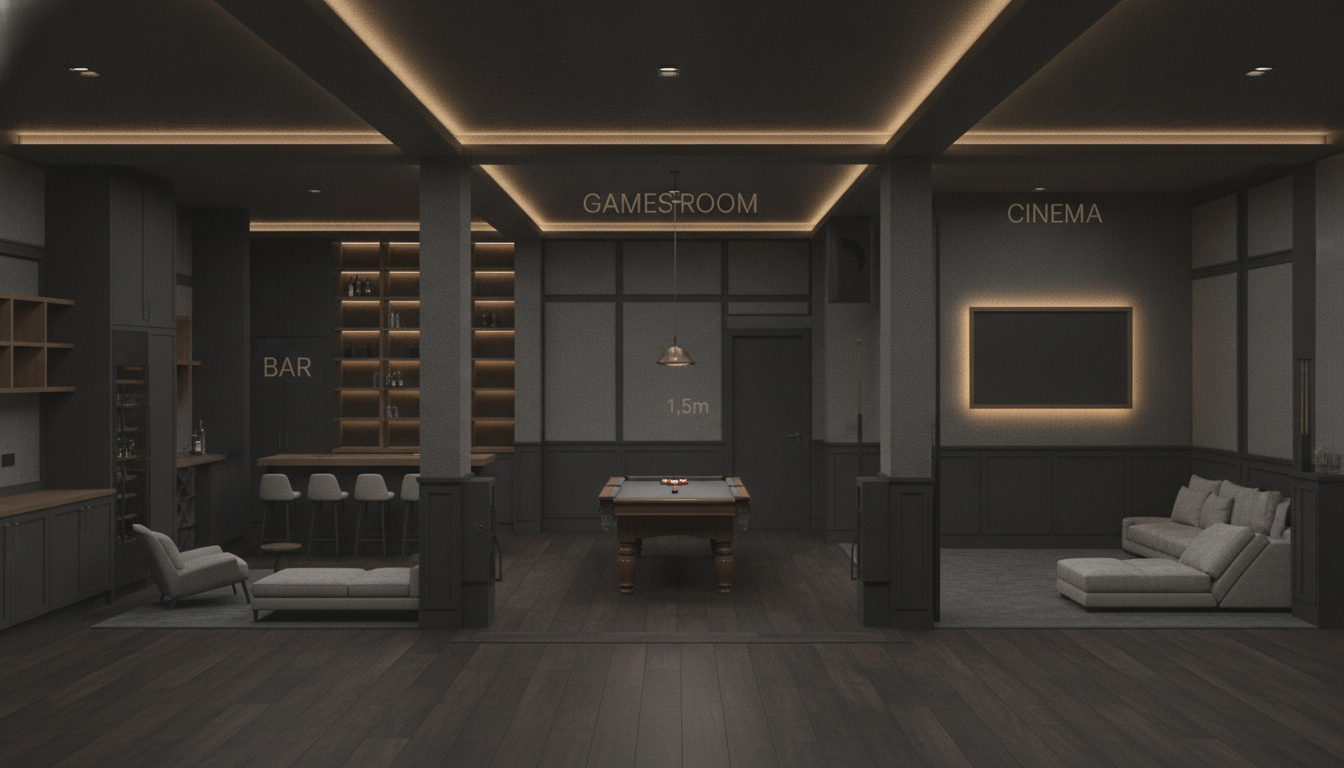
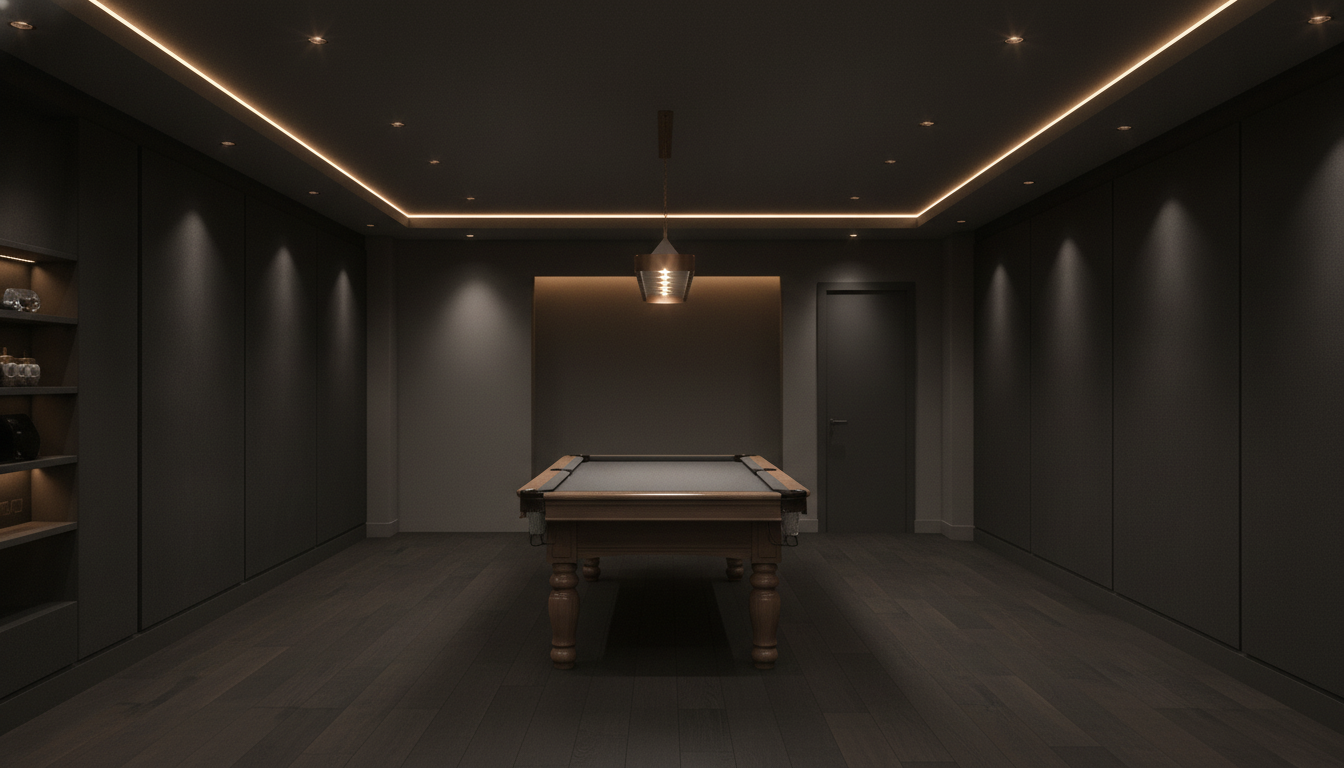
v0.12.0 folder pill + greystones prompts v6 (object canon, fabric walls), render set v6, v4/v5 archives

diff --git a/greystones/nano-banana-prompts-dark-grey.md b/greystones/nano-banana-prompts-dark-grey.md
@@ -1,158 +1,235 @@
-# Greystones (1392) — Basement Render Prompts v4 · DARK GREY · LAYOUT-CANON LOCKED
-### v4 (2026-08-20): every prompt is now pinned to the APPROVED layout plan (`layout-canon.png`, frozen from the v3 plan render Bryn signed off). The batch script attaches `layout-canon.png` to EVERY render automatically — placements must match it exactly, nothing invented. Geometry: basement 12m long × 6m wide × 2.7m ceiling in thirds — BAR (left) / GAMES ROOM (centre, pool table) / CINEMA (right). Also attach `../15 harrop/andy original cinema mood.png` as the style/material reference (the script does this too). Site photos from `site-photos/` still auto-attach where a prompt asks.
+# Greystones (1392) — Basement Render Prompts v6 · DARK GREY · LAYOUT + OBJECT CANON LOCKED
+### v6 (2026-09-01): Bryn — "inconsistent, make it more like the plan, exact and to scale, especially projector screen; nothing but the screen on that wall; front/RHS/rear cinema walls stretched fabric." Added the OBJECT CANON (exact repeated dimensions for every object so each render draws the SAME object at the SAME size), fixed cinema wall finishes, stripped all invented accessories from the screen wall. Layout unchanged from v5 (`layout-canon.png`, frozen from Bryn's hand sketch) — the batch script attaches it to EVERY render; placements must match it exactly. Also attach `../15 harrop/andy original cinema mood.png` as the style/material reference (the script does this too).
 
 ## STYLE BLOCK (prepend to every prompt)
 Photorealistic interior render of a luxury private basement entertainment
 suite — cinema, games room and bar — matching the attached concept image's
 dark grey scheme exactly, and matching the attached gold-on-charcoal LAYOUT
-PLAN exactly for every position. Walls in charcoal stretched fabric and
-painted dark charcoal (#33363a) with graphite upholstered acoustic panels,
-joinery in near-black graphite shaker style (#232529) with dark bronze
-hardware, shelving and counter accents in smoked oak (#6e5136) with
-concealed warm LED washes, sofa and stool upholstery in light silver-grey
-fabric (#b3ada3), slate deep-pile carpet (#4b4d51) in the cinema zone, dark
-engineered timber elsewhere. Basement — fully below ground, no windows, no
-daylight anywhere. CEILING: flat dark acoustic ceiling at 2.7m in each
-zone, crossed by two full-width charcoal-wrapped structural bulkheads at
-the zone boundaries, warm LED cove reveal along each bulkhead and around
-each ceiling bay perimeter. Warm 2700K lighting only — concealed LED
-coves, low-glare bronze-trimmed downlights, no visible light sources, no
-RGB, no blue tones anywhere. Moody, cinematic, high-end — Architectural
-Digest quality.
+PLAN exactly for every position. This is ONE render in a coordinated set:
+every object below has a FIXED size and appearance and must look IDENTICAL
+in every image of the set — same proportions, same materials, same
+position as the plan, drawn accurately to scale with the room.
 
-LAYOUT CANON (from the attached plan — follow EXACTLY, add NOTHING):
-one rectangular basement 12m long × 6m deep, three equal 4m-wide zones
-left to right: BAR / GAMES ROOM / CINEMA. Zone boundaries are partition
-walls with stub returns at the front and back walls and one WIDE CENTRAL
-OPENING each — the only ways through. CINEMA (right third): projection
-screen with warm LED halo centred on the BACK wall of the cinema zone;
-large L-shaped sofa in the FRONT-RIGHT corner, its long side against the
-front wall and short return up the right end wall, angled to face the
-screen diagonally; slate carpet; nothing else in the room — no door in
-the cinema walls, no cabinets. GAMES ROOM (centre): pool table with
-charcoal cloth exactly centred, 1.5m clear all round; the SINGLE main
-entrance door sits in the BACK wall of this zone OFFSET toward the cinema
-side, close to the cinema partition; no other furniture. This entrance is
-the ONLY door in the whole basement.
-BAR (left third): straight island bar counter parallel to the back wall,
-centred in the zone, with FOUR silver-grey bar stools along its front
-side; full-width back-bar shelving with warm LED wash along the BACK wall
-behind the counter; tall drinks fridge / cabinet unit at the back-left;
-wine shelving on the LEFT end wall; lounge armchair in the front-left
-corner with a low bench seat beside it on the front wall. No windows
-anywhere, no doors other than the games-zone entrance, no furniture that
-is not on the plan. 16:9 aspect ratio.
+ROOM SHELL: basement 12m long × 6m deep × 2.7m flat ceiling, fully below
+ground, no windows, no daylight anywhere. Three equal 4m zones left to
+right: BAR / GAMES ROOM / CINEMA, divided by partition walls with stub
+returns and one wide central opening each. Walls painted dark charcoal
+(#33363a); joinery near-black graphite shaker (#232529) with dark bronze
+hardware; worktop/shelf accents smoked oak (#6e5136); upholstery light
+silver-grey fabric (#b3ada3); slate deep-pile carpet (#4b4d51) in the
+cinema zone only, dark engineered timber elsewhere. CINEMA ZONE WALLS:
+the screen wall, the right-hand end wall and the rear wall behind the
+sofa are floor-to-ceiling charcoal STRETCHED FABRIC with crisp shadow-gap
+trim; the partition wall shared with the games room is painted charcoal.
+NO acoustic panels, NO diamond panels, NO slatted timber, NO wall decor
+anywhere in the cinema. CEILING: flat dark acoustic ceiling, crossed by
+two full-width charcoal-wrapped structural bulkheads at the zone
+boundaries, warm LED cove reveal along each bulkhead and around each
+ceiling bay perimeter. Warm 2700K lighting only — concealed LED coves,
+low-glare bronze-trimmed downlights, no visible light sources, no RGB, no
+blue tones anywhere. Moody, cinematic, high-end — Architectural Digest
+quality. The attached LAYOUT PLAN is positional reference ONLY — NEVER
+draw the plan itself, its gold linework, labels, dimension text or
+symbols in the output; the output is a pure photographic interior view
+with no diagram overlay and no text.
+
+OBJECT CANON — fixed sizes, identical in EVERY render, nothing else exists:
+- SCREEN: one 3.2m-wide × 1.8m-tall (16:9) projection screen with a slim
+  20mm matte-black frame, set flush in the cinema screen wall's stretched
+  fabric, EXACTLY centred on the 4m wall, bottom edge 500mm above the
+  floor, warm 2700K LED halo glowing evenly from behind all four edges.
+  TO SCALE: the screen spans 80% of the wall's width — only about 400mm
+  of bare fabric shows either side of the frame, and its top edge
+  reaches 2.3m of the 2.7m ceiling. It reads as a huge cinema screen,
+  never a lounge TV.
+  The screen wall carries NOTHING else — no speakers, no soundbar, no
+  cabinet, no console, no shelf, no plant, no panels, no door: bare
+  stretched fabric and the screen only.
+- SOFA (cinema): one U-shaped modular sofa, 3.2m wide across the back,
+  two equal 2.2m return arms toward the screen, seat height 450mm, low
+  780mm back, wide flat armrests, light silver-grey fabric, charcoal and
+  slate scatter cushions. Centred in the zone per the plan, its back to
+  the rear wall, opening squarely toward the screen.
+- PROJECTOR: one compact matte-black projector, high on the cinema REAR
+  wall just below the ceiling, centred behind the sofa (plan position
+  PJ). No other AV equipment visible anywhere.
+- POOL TABLE (games): one 7ft English pool table, 2.0m × 1.0m playfield,
+  smoked-oak rails and legs, charcoal cloth, exactly centred in the games
+  zone with equal clear floor all round, long axis running front-to-back
+  per the plan; one linear bronze-trimmed billiard pendant centred above
+  it at 2700K.
+- DOOR: exactly ONE door in the whole basement — a flush dark charcoal
+  door in the games zone back wall, offset toward the cinema partition
+  per the plan. Every other wall is unbroken.
+- BAR COUNTER: one U-shaped counter wrapping the bar's back-left corner —
+  2.6m run along the back wall, 1.8m return along the left end wall —
+  graphite shaker base, 40mm smoked-oak top at 1.1m height, warm LED
+  strip under the counter lip, integral small sink and glass-door drinks
+  fridge in the base, one bronze beer font on the counter. Back-bar
+  shelving above the back-wall run: near-black joinery, three smoked-oak
+  shelves, backlit bottles and glassware.
+- WINE SHELVING: one open smoked-oak wine/shelving unit on the bar's left
+  end wall toward the front corner.
+- LOUNGE BENCH (bar): one L-shaped built-in bench, 2.6m along the front
+  wall with a 1.8m return toward the room centre, graphite base,
+  silver-grey seat cushions, low smoked-oak drinks table in front.
+NO bar stools, NO island counter, NO armchair, NO floor-standing
+speakers, NO plants, NO artwork, NO rugs except the cinema carpet, NO
+furniture or objects that are not in this list. 16:9 aspect ratio.
 
 ## 1 · HERO — Cinema zone, screen wall  → hero slot
-Standing in the wide central opening of the cinema partition, looking at
-the back wall of the cinema zone: large projection screen with a slim
-black frame set flush in the charcoal fabric-wrapped back wall, warm
-2700K LED halo glowing evenly around the screen perimeter, graphite
-diamond acoustic panels flanking it, subtle fibre-optic star-ceiling
-recess above with the warm LED cove of the cinema ceiling bay, and to the
-camera's right the L-shaped silver-grey modular sofa in the far corner —
-long side along the right-hand wall run, return along the end wall —
-angled toward the screen, charcoal scatter cushions, smoked-oak side
-table, film playing with rich colour. Exactly the furniture on the plan,
-nothing more.
+Camera INSIDE the cinema zone, standing just behind the U-shaped sofa,
+looking squarely at the cinema screen wall — ONLY the cinema zone is
+visible, its side walls framing the shot; no other zone, no pool table,
+no bar in frame. The CANON screen exactly as specified: 3.2m wide,
+centred on the 4m stretched-fabric wall, bottom edge 500mm up, slim
+black frame, warm LED halo glowing evenly around all four edges, film
+playing with rich colour. The wall is otherwise completely bare
+stretched fabric floor to ceiling. Subtle fibre-optic star-ceiling
+recess above with the warm LED cove of the cinema ceiling bay. In the
+foreground the CANON U-sofa centred on the screen — long seat nearest
+the camera, both return arms reaching toward the screen, nothing
+resting on the sofa. Slate carpet. The projector is NOT visible in
+this shot (it sits high on the wall BEHIND the camera) — no projector,
+no box, no equipment anywhere in frame, and no "PJ" text anywhere.
+This is a fixed U-shaped fabric sofa — NOT individual recliner seats,
+no cupholders, no leather. Exactly the objects in the canon, nothing
+more.
 
 ## 2 · LAYOUT PLAN — top view, whole basement  → plan slot  ·· CANON — DO NOT RE-RENDER
-### (this prompt produced layout-canon.png — approved 2026-08-20; re-running replaces the canon, so skip it in batches)
+### (this prompt describes layout-canon.png — v5 frozen 2026-09-01 from Bryn's hand sketch; re-running replaces the canon, so skip it in batches)
 Clean top-down architectural plan illustration (not photoreal) of a
 12m × 6m rectangular basement in three equal zones divided by two
 partition walls with stub returns and wide central openings. Cinema zone
-on the right: projection screen with LED halo on the back wall, L-shaped
-sofa in the front-right corner facing it. Central games zone: full-size
-pool table centred with 1.5m cueing clearance marked. THE DOOR: exactly
-ONE door in the whole plan — drawn in the TOP wall of the games room
-with a quarter-circle door swing arc, positioned three-quarters of the
-way along toward the cinema side, right beside the cinema partition.
-The bottom wall and both end walls are completely unbroken. Bar zone on the
-left: island bar counter with EXACTLY FOUR stools, back-bar shelving
-along the back wall, drinks cabinet, wine shelving on the end wall,
-lounge corner at the front. Charcoal background, bronze linework.
-TEXT: the ONLY text on the drawing is the three zone names BAR,
-GAMES ROOM, CINEMA and the two overall dimensions 12m and 6m — no other
-labels, no annotations, no dimension text anywhere else. Premium
-brochure style.
+on the right: projection screen with LED halo on the back wall, U-shaped
+sofa centred in the zone opening toward the screen — long seat along the
+front wall, two equal arms toward the screen — and a small square box
+labelled PJ against the front wall beside the sofa. Central games zone:
+full-size pool table centred, long axis front-to-back, 1.5m cueing
+clearance marked. THE DOOR: exactly ONE door in the whole plan — drawn
+in the TOP wall of the games room with a quarter-circle door swing arc,
+positioned three-quarters of the way along toward the cinema side, right
+beside the cinema partition. The bottom wall and both end walls are
+completely unbroken. Bar zone on the left: U-shaped counter wrapping the
+back-left corner with integral sink and fridge symbols, open shelving /
+wine rack on the left end wall toward the front, L-shaped lounge bench
+along the front wall — NO island, NO stools. Charcoal background, bronze
+linework. TEXT: the ONLY text on the drawing is the three zone names
+BAR, GAMES ROOM, CINEMA, the label PJ, and the two overall dimensions
+12m and 6m — no other labels, no annotations, no dimension text anywhere
+else. Premium brochure style.
 
 ## 3 · SCREEN WALL  → wallFront slot
-Straight-on elevation of the cinema zone's back wall exactly as placed on
-the attached plan (the 4m-wide bay between the partition and the right
-end wall): charcoal fabric-wrapped wall floor to ceiling, projection
-screen with slim black frame set flush and centred, warm 2700K LED halo
-glowing evenly around all four screen edges, dark bronze reveal trim,
-graphite diamond acoustic panels either side, LED wash from the ceiling
-cove above. No door, no cabinetry, no windows in this wall — a clean
-fabric screen wall only.
+Straight-on elevation of the cinema screen wall exactly as placed on the
+attached plan (the 4m-wide bay between the partition and the right end
+wall): floor-to-ceiling charcoal stretched fabric, and set flush in it
+the CANON screen — 3.2m wide × 1.8m tall, slim 20mm matte-black frame,
+EXACTLY centred on the wall, bottom edge 500mm above the slate carpet,
+warm 2700K LED halo glowing evenly around all four edges from behind
+the frame. LED wash from the ceiling cove above, fabric texture just
+catching the light. The wall carries ABSOLUTELY NOTHING else — no
+speakers, no soundbar, no cabinet, no shelf, no panels, no door, no
+plant, no accessories of any kind: bare stretched fabric and the screen
+only, perfectly symmetrical.
 
 ## 4 · GAMES ROOM — pool table  → wallLeft slot
-Standing at the bar-side opening looking across the games room, matching
-the attached plan: full-size pool table with charcoal cloth and smoked
-oak rails EXACTLY centred with clear floor all round, linear bronze-
-trimmed billiard pendant above it at 2700K, the main entrance door set
-flush in dark charcoal in the back wall toward the cinema-side end of
-the zone (per the plan — not centred), the two
+Pure photographic interior view — absolutely no plan drawing, linework,
+labels or dimension text in the image. Standing at the bar-side opening
+looking across the games room, matching the attached plan: the CANON
+pool table — 7ft, smoked-oak rails, charcoal cloth — EXACTLY centred in
+the games zone with equal clear floor all round, its long axis running
+AWAY from the camera toward the far partition (perpendicular to the
+room's 12m length, matching the plan), the CANON billiard pendant
+centred above it, the CANON door set flush in the back wall toward the
+cinema-side end of the zone (per the plan — not centred), the two
 charcoal-wrapped bulkheads with warm LED reveals overhead marking the
-zone boundaries, dark timber floor, and through the wide opening beyond
-the glow of the cinema screen halo. No other furniture — the games room
-holds only the pool table, per the plan.
+zone boundaries, dark timber floor. The far wall ahead is the plain
+charcoal cinema partition with its wide central opening — NO screen,
+NO TV, NO glowing panel anywhere in the games room or on the
+partition; at most a faint warm glow spills through the opening from
+the cinema beyond. No other furniture — the games room holds only the
+pool table, per the plan. The floor is plain dark
+timber — NO measurement text, NO "1.5m" labels, NO white marker lines
+or clearance outlines drawn on the floor or anywhere else.
 
 ## 5 · BAR — front view  → wallRear slot
 Standing in the games-side opening looking into the bar zone, matching
-the attached plan: straight island bar counter centred in the zone,
-graphite shaker base with a smoked oak top and warm LED strip under the
-counter lip, FOUR silver-grey upholstered bar stools with bronze
-footrails in a row along its near side, and behind it the full-width
-back-bar along the back wall — near-black joinery, smoked-oak shelves of
-backlit bottles and glassware, tall drinks cabinet with softly glowing
-glass door at its left end. On the far left end wall, smoked-oak wine
-shelving; in the front-left corner a silver-grey lounge armchair and low
-bench. Bronze beer font on the counter. Exactly the pieces on the plan,
-positioned as drawn.
+the attached plan. Camera-relative geography, follow it exactly: the
+far wall ahead is the LEFT END wall of the basement; the wall on the
+CAMERA'S RIGHT is the back wall; the wall on the CAMERA'S LEFT is the
+front wall. The CANON U-counter wraps the FAR-RIGHT corner — its 2.6m
+run along the right-hand (back) wall, its 1.8m return coming out along
+the far end wall — smoked oak top, LED strip under the lip, sink and
+glowing glass-door fridge in the base, bronze beer font on top, the
+CANON back-bar shelving above the right-hand run with backlit bottles.
+On the far end wall toward its left half, the CANON wine shelving unit.
+On the CAMERA'S LEFT the CANON L-shaped lounge bench hugs the front
+wall, low smoked-oak drinks table in front. THE MIDDLE OF THE FLOOR IS
+COMPLETELY EMPTY dark timber — NO island, NO freestanding counter or
+unit of any kind in the centre; the ONLY counter is the U against the
+far corner walls. NO bar stools, NO armchair. Every wall in this room
+is completely UNBROKEN — NO door, NO doorway anywhere in frame; the
+basement's only door is in the games room BEHIND the camera. Exactly
+the objects in the canon, positioned as drawn.
 
 ## 6 · LONG VIEW — all three zones  → wallRight slot
 ### (attach the long axial Greystones site photo for the exact shell proportions)
-Wide view down the full 12m length from the cinema end wall beside the
-sofa, exactly matching the attached plan's arrangement: the L-shaped
-silver-grey sofa corner in the near right foreground on slate carpet, the
-LED-haloed screen glowing on the back wall to the right of frame, then
-through the wide partition opening the centred pool table under its
-pendant, and at the far end the warm glow of the island bar with its four
-stools and backlit shelving. The two charcoal-wrapped bulkheads with LED
-reveals cross overhead at the zone breaks, three lit ceiling bays in a
-row, one continuous dark grey scheme, bronze accents catching the light.
+Wide view down the full 12m length from beside the cinema screen wall,
+exactly matching the attached plan's arrangement: the CANON U-sofa
+centred in the near cinema zone on slate carpet, its open side toward
+the camera — NO projector visible anywhere near the screen — then
+through the wide partition opening the CANON pool table centred under
+its pendant, and at the far end the warm glow of the bar's U-shaped
+corner counter and backlit back-bar shelving, the lounge bench along
+the front wall. Cinema walls in stretched fabric, the two
+charcoal-wrapped bulkheads with LED reveals crossing overhead at the
+zone breaks, three lit ceiling bays in a row, one continuous dark grey
+scheme, bronze accents catching the light. Every object exactly the
+canon size, to scale with the 12m × 6m shell.
 
 ## 7 · SEATING DETAIL  → seat slot
-Close-up three-quarter shot of the corner of the L-shaped modular sofa
-exactly as positioned on the plan — in the cinema's front corner, long
-side against the wall — light silver-grey fabric, wide flat armrests,
-charcoal and slate scatter cushions, smoked-oak side table with a low
-warm table lamp, slate deep-pile carpet, the warm glow of the screen halo
-washing in from the screen wall beyond, soft warm rim lighting —
-luxurious, casual cinema lounging.
+Close-up three-quarter shot of one corner of the CANON U-shaped modular
+sofa exactly as positioned on the plan — centred in the cinema zone,
+back to the rear wall, return arm reaching toward the screen so the
+corner where seat meets arm is the subject — light silver-grey fabric,
+wide flat armrests, 450mm seat height, charcoal and slate scatter
+cushions, smoked-oak side table with a low warm table lamp, slate
+deep-pile carpet, the warm glow of the screen halo washing in from the
+screen wall beyond, soft warm rim lighting. The wall behind the sofa is
+floor-to-ceiling charcoal STRETCHED FABRIC — NO acoustic panels, NO
+slats, NO light oak, NO pale timber, no wall decor. Luxurious, casual
+cinema lounging.
 
 ## 8 · BACK-BAR SHELVES  → shelf1 + shelf2 slots (portrait crops)
-Detail of the back-bar shelving run on the bar zone's back wall exactly
-as on the plan: near-black graphite joinery bay with three smoked-oak
+TIGHT close-up detail shot — the shelving bay FILLS the frame edge to
+edge, camera two steps away, nothing else of the room visible: the
+CANON back-bar shelving above the bar counter's back-wall run exactly
+as on the plan — near-black graphite joinery bay with three smoked-oak
 shelves, concealed warm LED strip washing each shelf, whisky decanter,
-premium spirit bottles and glassware, a small bronze film-reel ornament,
-the smoked-oak counter edge just visible below, dark background, warm
-glow.
+premium spirit bottles and glassware, a small bronze film-reel
+ornament, the smoked-oak counter edge just visible at the bottom of
+frame, dark background, warm glow. No pool table, no sofa, no doors —
+shelves only.
 
 ## Board note
-v4 LOCK: `layout-canon.png` (frozen v3 plan render, approved by Bryn
-2026-08-20) is attached to every render by the batch script — placements
-must match it and prompts forbid invented doors/furniture. Prompt 2 is
-the canon's source and is SKIPPED in batches (re-running would replace
-the approved layout — use `--only 2` deliberately if the layout itself
-changes, then re-freeze layout-canon.png). Orientation key: plan "back
-wall" = the long internal blockwork (door) wall on site; front wall +
-both ends = external membrane walls, fully lined, no openings. DOOR
-CORRECTED 2026-08-20 (Bryn, vs photos): single entrance in the games
-zone back wall OFFSET toward the cinema partition — the v3 plan's
-centred door + bar-corner recess were wrong; canon re-frozen. Site
-observations, survey caveats (beam drops, which end is bar, door
-position) and the full project history: see v3 note in git history +
-B-434. Style locked to the Andy Bell 1387 dark grey palette; style ref in
-`../15 harrop/`. Site photo ORIGINALS still to be filed to site-photos/.
+v6 (2026-09-01, same day as v5): Bryn review of the v5 set — renders
+were INCONSISTENT between shots (screen changed size/position, random
+consoles/speakers/accessories appeared on the screen wall, oak
+panelling drifted in). Fixes: OBJECT CANON added to the style block —
+every object gets one fixed spec (screen 3.2×1.8m centred / bottom
+500mm, U-sofa 3.2m + 2.2m arms, 7ft pool table, U-counter 2.6+1.8m,
+bench 2.6+1.8m, single projector high on rear wall) repeated verbatim
+into every render so the set draws the SAME objects at the SAME scale;
+cinema wall finishes corrected per Bryn — screen wall + RHS end wall +
+rear (sofa) wall are floor-to-ceiling stretched fabric, partition
+painted; diamond/acoustic panels REMOVED from all cinema prompts;
+screen wall carries the screen ONLY. Layout unchanged from v5 canon
+(hand sketch): bar U-counter + wine rack + L-bench, games pool table +
+single offset door, cinema U-sofa + PJ. Prompt 2 still describes the
+frozen canon and is SKIPPED in batches (`--only 2` deliberately + re-
+freeze if the layout itself ever changes). Orientation key: plan "back
+wall" = long internal blockwork (door) wall on site; front + both ends
+= external membrane walls, fully lined, no openings. v4 canon archived
+as layout-canon-v4-archive.png; v4 renders in renders-v4/, v5 renders
+in renders-v5/. Full history: git + B-434. Style ref in `../15 harrop/`.
+Site photo ORIGINALS still to be filed to site-photos/.
